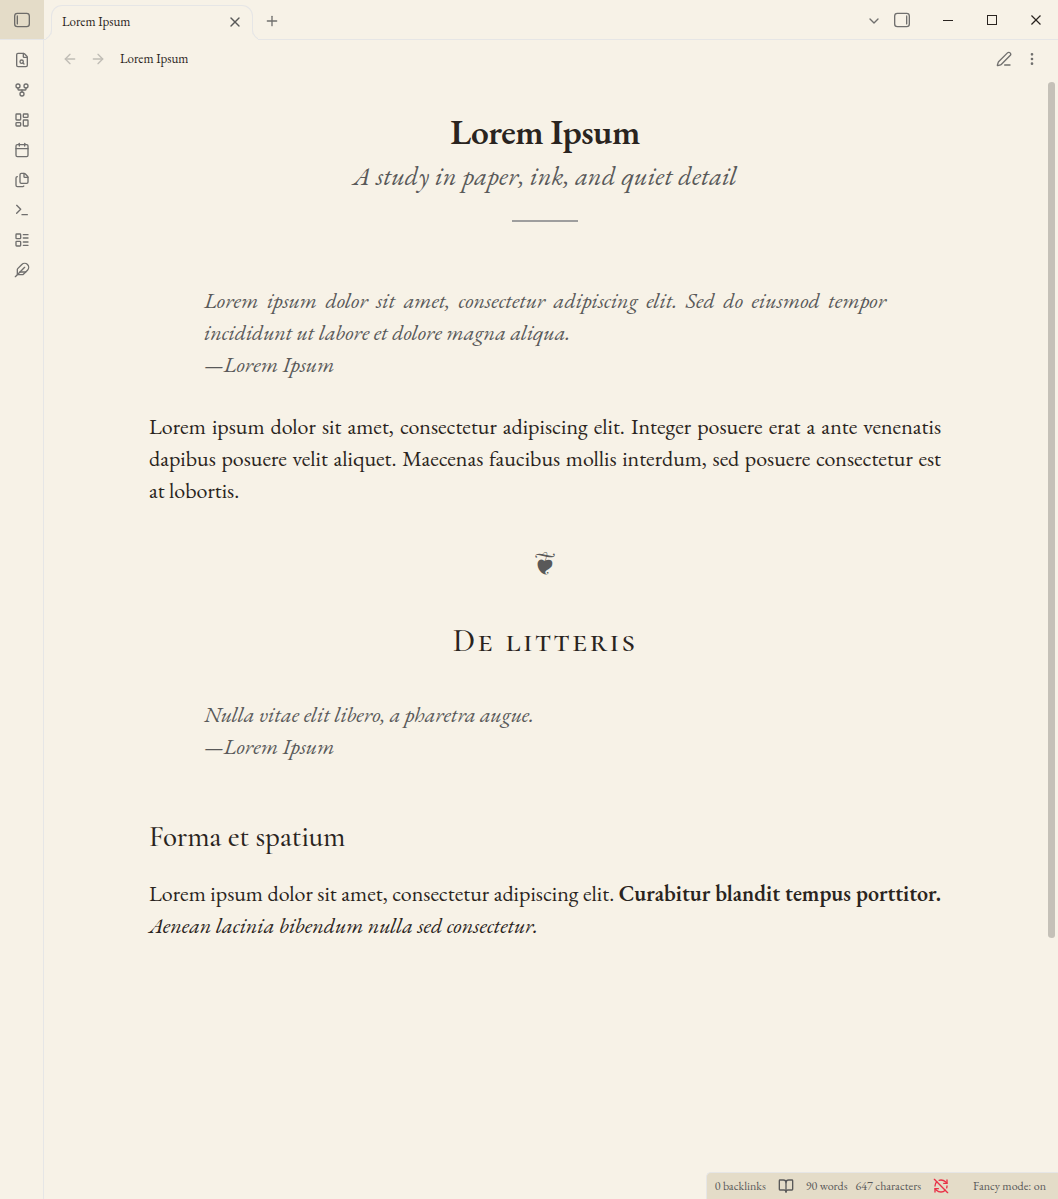
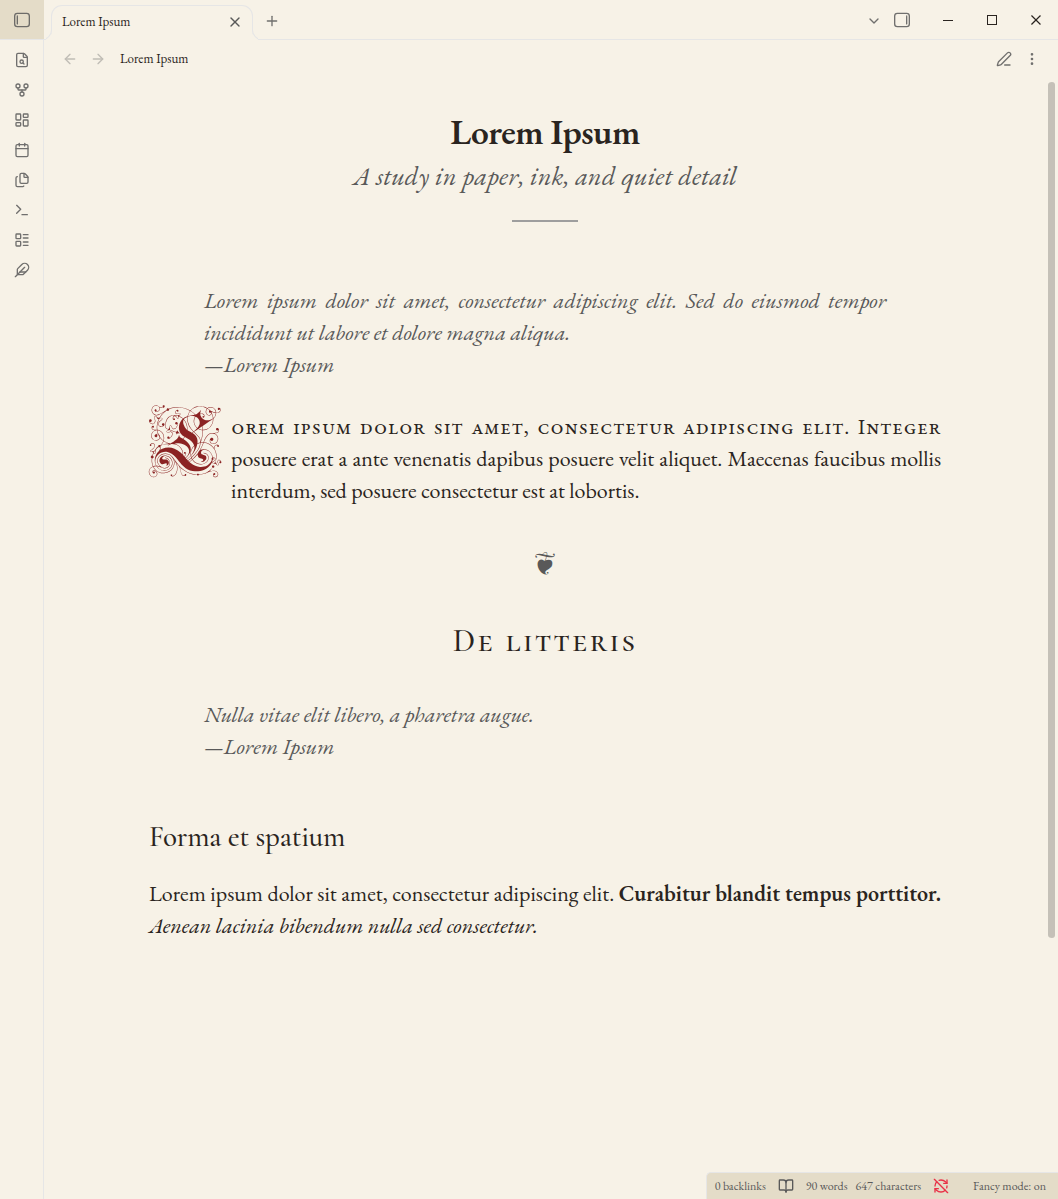
Fancy mode: Yinit drop cap after an opening quotation; screenshots retaken
The user asked for the drop cap after quotes in Fancy mode too. Fancy mode now gives the paragraph after an
epigraph (heading, then quotation) the Yinit initial and a small-capped first line, like regular mode.
Scriptorium.zip rebuilt with the new snippet, installers re-pinned, both light-mode Obsidian screenshots retaken.

Claude-Session: https://claude.ai/code/session_01CWVWPAKXQQg88PK2he7g2B

Changed region(s): [[0.1248, 0.3394, 0.9045, 0.432]]

diff --git a/assets/scriptorium-plugin/manuscript.css b/assets/scriptorium-plugin/manuscript.css
@@ -394,7 +394,9 @@ body:where(.scriptorium-fancy).theme-dark {
 :where(body.scriptorium-fancy) .markdown-rendered .mod-header + .el-p > p::first-letter,
 :where(body.scriptorium-fancy) .markdown-rendered .el-h1 + .el-p > p::first-letter,
 :where(body.scriptorium-fancy) .markdown-rendered .el-h2 + .el-p > p::first-letter,
-:where(body.scriptorium-fancy) .markdown-rendered .el-h6 + .el-p > p::first-letter {
+:where(body.scriptorium-fancy) .markdown-rendered .el-h6 + .el-p > p::first-letter,
+:where(body.scriptorium-fancy) /* ...also when an epigraph (a quote right under a heading) sits between */
+.markdown-rendered :is(.mod-header, .el-h1, .el-h2, .el-h6) + .el-blockquote + .el-p > p::first-letter {
   float: left;
   font-family: "Scriptorium Yinit", var(--manuscript-display);
   font-size: 3.36em;          /* a square initial about three lines tall */
@@ -409,7 +411,8 @@ body:where(.scriptorium-fancy).theme-dark {
 :where(body.scriptorium-fancy) .markdown-rendered .el-h1 + .el-p > p::first-line,
 :where(body.scriptorium-fancy) .markdown-rendered .el-h2 + .el-p > p::first-line,
 :where(body.scriptorium-fancy) .markdown-rendered .el-h6 + .el-p > p::first-line,
-:where(body.scriptorium-fancy) .markdown-rendered .el-hr + .el-p > p::first-line {
+:where(body.scriptorium-fancy) .markdown-rendered .el-hr + .el-p > p::first-line,
+:where(body.scriptorium-fancy) .markdown-rendered :is(.mod-header, .el-h1, .el-h2, .el-h6) + .el-blockquote + .el-p > p::first-line {
   font-variant-caps: small-caps;
   letter-spacing: 0.03em;
 }

diff --git a/assets/scriptorium-preview.js b/assets/scriptorium-preview.js
@@ -9,9 +9,9 @@
     const source = image.dataset[fancy ? 'fancy' : 'normal'];
     image.src = source;
     link.href = source;
-    image.alt = `Scriptorium in Obsidian with Fancy mode ${fancy ? 'on: italic quotations and justified openings' : 'off: centered small-cap headings, bordered quotations and a Yinit drop cap'}, in light mode.`;
+    image.alt = `Scriptorium in Obsidian with Fancy mode ${fancy ? 'on: italic quotations, justified openings and a Yinit drop cap' : 'off: centered small-cap headings, bordered quotations and a Yinit drop cap'}, in light mode.`;
     caption.textContent = fancy
-      ? 'Fancy mode on — italic quotations and justified openings. Captured in Obsidian, light mode.'
+      ? 'Fancy mode on — italic quotations, justified openings and a Yinit drop cap. Captured in Obsidian, light mode.'
       : 'Fancy mode off — centered small-cap headings, bordered quotations and a Yinit drop cap. Captured in Obsidian, light mode.';
   }
   toggle.addEventListener('change', updatePreview);

diff --git a/scriptorium.md b/scriptorium.md
@@ -23,7 +23,7 @@ Bookish serif typography, warm paper, centered small-cap headings, italic subtit
 
 ### Fancy mode
 
-Fancy mode starts **off**, with centered small-cap section headings and bordered quotations. Turn it on for quiet italic quotations and justified openings. **Both modes use the same 1.45 line spacing.**
+Fancy mode starts **off**, with centered small-cap section headings and bordered quotations. Turn it on for quiet italic quotations and justified openings. Both modes open chapters with an ornamental Yinit initial. **Both modes use the same 1.45 line spacing.**
 
 In Obsidian, go to **Settings → Scriptorium → Fancy mode**. You can also click the **feather icon**, click **Fancy mode: on/off** in the status bar, or use **Scriptorium: Toggle fancy mode** in the command palette. Your choice is remembered for that vault.
 
